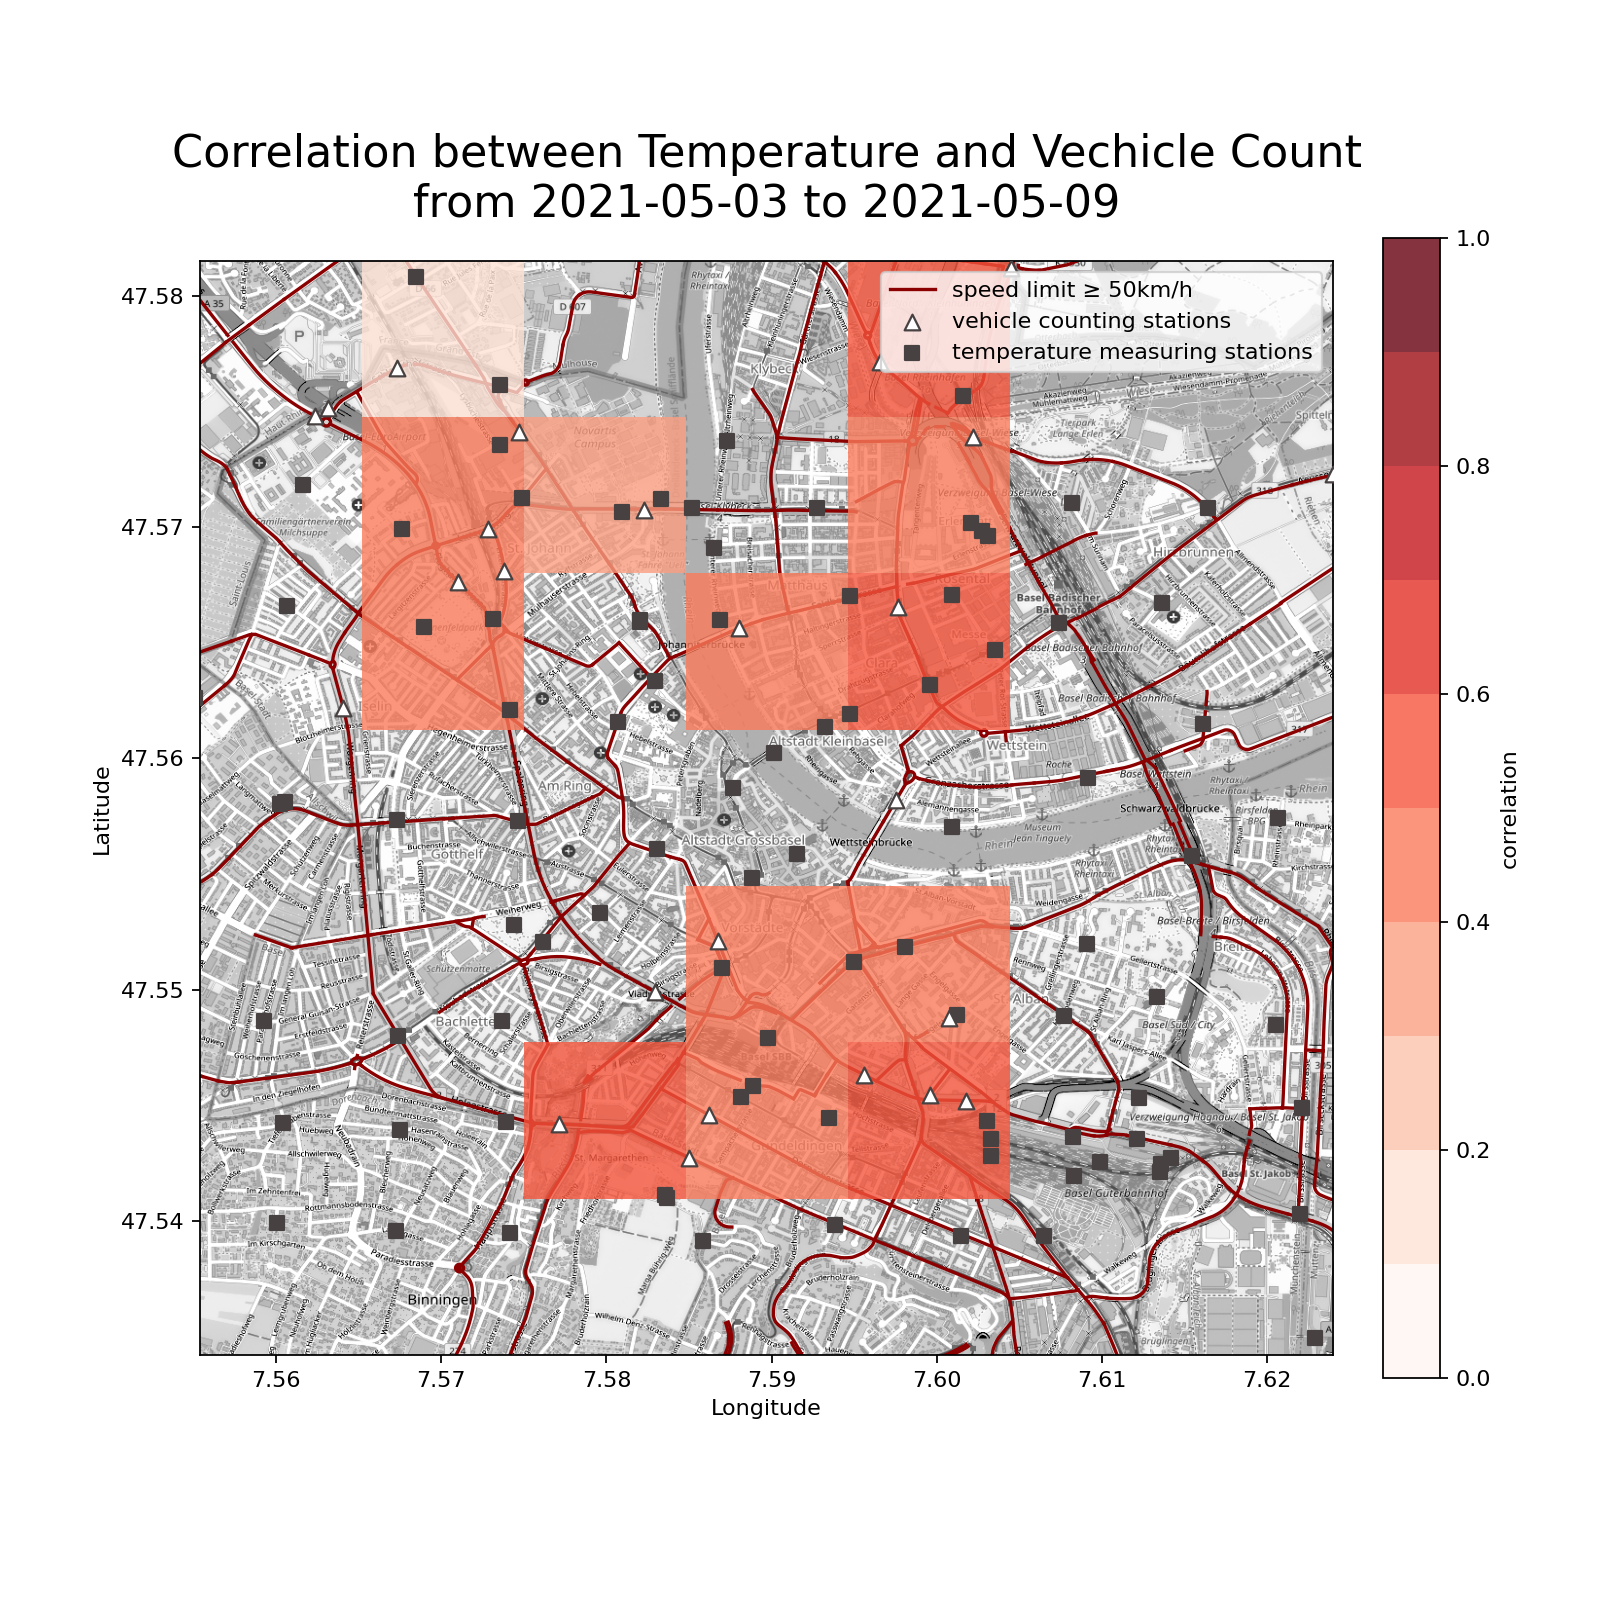
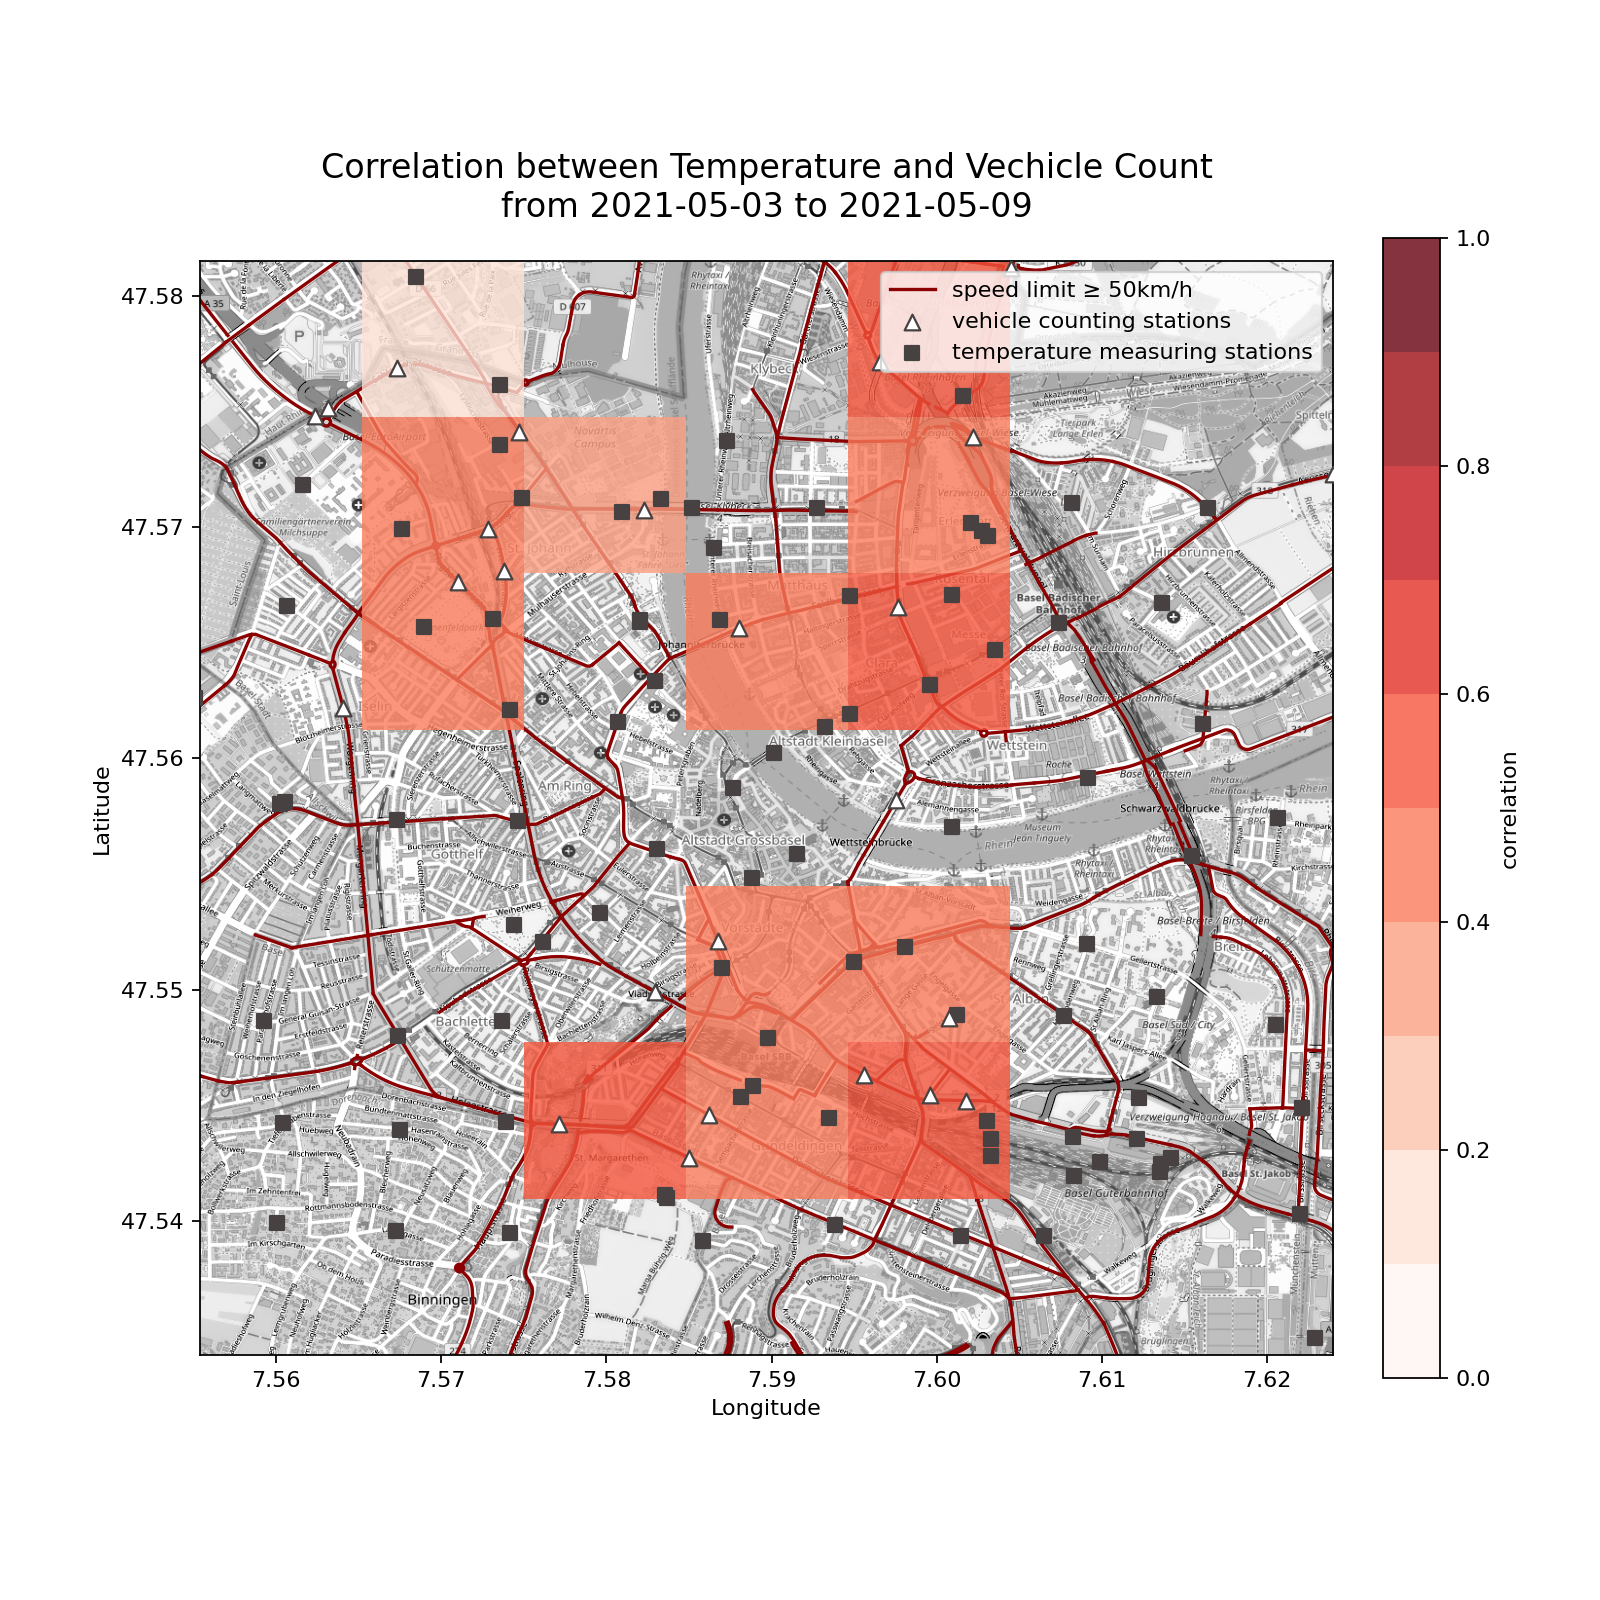
changed font size

Changed region(s): [[0.125, 0.0625, 0.8438, 0.1562]]

diff --git a/final_plots.py b/final_plots.py
@@ -114,7 +114,7 @@ streets.plot_streets(zorder=1, color="darkred")
 stations.plot_stations(verkehr, "Geo Point", zorder=4, label="vehicle counting stations", marker="^", size=50, alpha=1, color="white", edgecolors="#484141")
 stations.plot_stations(luft, "Koordinaten", zorder=3, label="temperature measuring stations", marker="s", color="#484141", size=40, alpha=1)
 plt.imshow(basel, extent=box, aspect=1.4, zorder=0)
-plt.title(f"Correlation between Temperature and Vechicle Count\nfrom {start} to {end}", fontsize=20, pad=20)
+plt.title(f"Correlation between Temperature and Vechicle Count\nfrom {start} to {end}", fontsize=15, pad=20)
 plt.legend()
 plt.xlabel("Longitude")
 plt.ylabel("Latitude")
